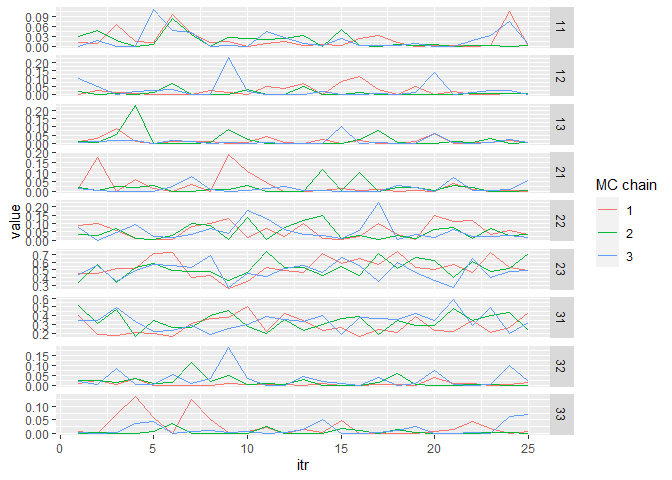
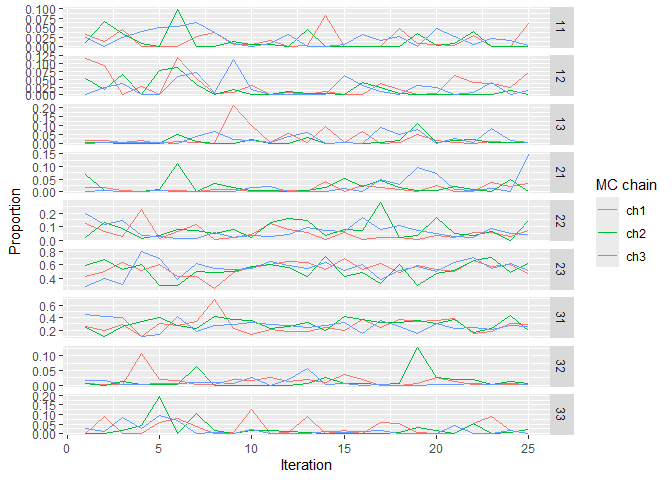
update documentations

diff --git a/README.md b/README.md
@@ -36,48 +36,49 @@ library(magma.gsi)
 wd <- getwd() # path to data folder
 magma_data <- magmatize_data(wd = paste0(wd, "/vignettes"), save_data = FALSE)
 #> Compiling input data, may take a minute or two...
+#> FAKE is the fishery identified in the mixture.RData
 #> No missing hatcheries
-#> Time difference of 8.675583 secs
+#> Time difference of 5.321199 secs
 ```
 
 Run the model:
 
 ``` r
 magma_out <- magmatize_mdl(magma_data, nreps = 50, nburn = 25, thin = 1, nchains = 3)
-#> Running model (and the category is... Live, Werk, Pose!)
-#> Time difference of 2.01657 secs
-#> 2023-08-28 17:15:41.888492
+#> Running model... and work for a cause, not for Butch Queen Body!
+#> Time difference of 1.025131 secs
+#> 2024-04-17 11:50:17.629791
 ```
 
 Summarize the results:
 
 ``` r
-magma_summ <- magmatize_summ(ma_out = magma_out, ma_dat = magma_data, summ_level = "district", type = "age")
+magma_summ <- magmatize_summ(ma_out = magma_out, ma_dat = magma_data, summ_level = "district")
 #> Preparing output (patience grasshopper...)
-#> Time difference of 0.5365539 secs
-#> 2023-08-28 17:15:42.465052
+#> Time difference of 0.3293231 secs
+#> 2024-04-17 11:50:17.975011
 
 magma_summ$age_summ[1]
-#> $`(1)_D1_Koyukuk`
+#> $D1_Koyukuk
 #> # A tibble: 9 × 10
 #>   group   age     mean  median     sd     ci.05  ci.95     p0    GR n_eff
-#>   <chr>   <chr>  <dbl>   <dbl>  <dbl>     <dbl>  <dbl>  <dbl> <dbl> <dbl>
-#> 1 Koyukuk 11    0.0190 0.00882 0.0257 0.000163  0.0780 0.0533 1.07   75  
-#> 2 Koyukuk 12    0.0216 0.00609 0.0376 0.0000110 0.0873 0.12   0.999  75  
-#> 3 Koyukuk 13    0.0158 0.00369 0.0329 0.0000149 0.0797 0.147  1.02   75  
-#> 4 Koyukuk 21    0.0223 0.00773 0.0364 0.0000600 0.0995 0.0667 1.03   70.8
-#> 5 Koyukuk 22    0.0541 0.0350  0.0469 0.00467   0.139  0      0.989  75  
-#> 6 Koyukuk 23    0.516  0.518   0.115  0.343     0.718  0      1.02   62.8
-#> 7 Koyukuk 31    0.318  0.327   0.100  0.179     0.496  0      1.06   75  
-#> 8 Koyukuk 32    0.0178 0.00577 0.0309 0.0000184 0.0764 0.173  1.06   75  
-#> 9 Koyukuk 33    0.0156 0.00372 0.0265 0.0000321 0.0647 0.12   1.24   76.5
+#>   <chr>   <fct>  <dbl>   <dbl>  <dbl>     <dbl>  <dbl>  <dbl> <dbl> <dbl>
+#> 1 Koyukuk 11    0.0177 0.00671 0.0222 0.0000357 0.0618 0.12   1.05  166. 
+#> 2 Koyukuk 12    0.0238 0.0106  0.0306 0.0000403 0.0893 0.107  1.07   62.8
+#> 3 Koyukuk 13    0.0213 0.00402 0.0353 0.0000438 0.0893 0.0933 1.05   75  
+#> 4 Koyukuk 21    0.0168 0.00597 0.0267 0.0000979 0.0686 0.0667 1.03   75  
+#> 5 Koyukuk 22    0.0656 0.0534  0.0554 0.00614   0.166  0      1.06   61.1
+#> 6 Koyukuk 23    0.536  0.546   0.115  0.301     0.698  0      1.00   75  
+#> 7 Koyukuk 31    0.282  0.275   0.0994 0.128     0.422  0      1.00   75  
+#> 8 Koyukuk 32    0.0125 0.00485 0.0215 0.0000138 0.0412 0.0933 1.13   75  
+#> 9 Koyukuk 33    0.0243 0.00701 0.0366 0.0000318 0.0922 0.0933 0.996 145.
 ```
 
 There’s a function in the package to make trace plots and inspect mixing
 of chains.
 
 ``` r
-tr_plot(magma_summ$age_prop[[1]])
+magmatize_tr_plot(magma_summ$age_prop[[1]])
 ```
 
 <img src="man/figures/README-example_trace_plot-1.png" width="100%" />
